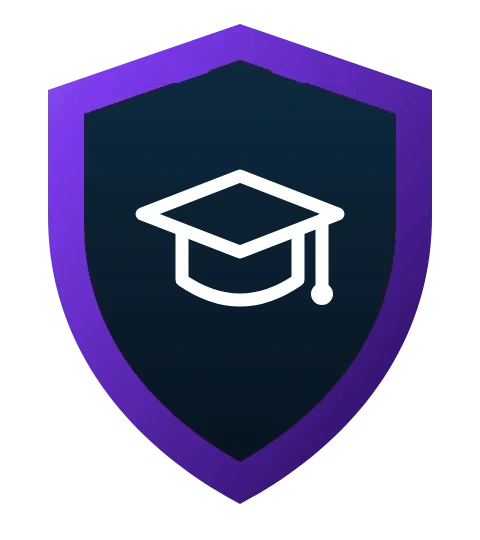
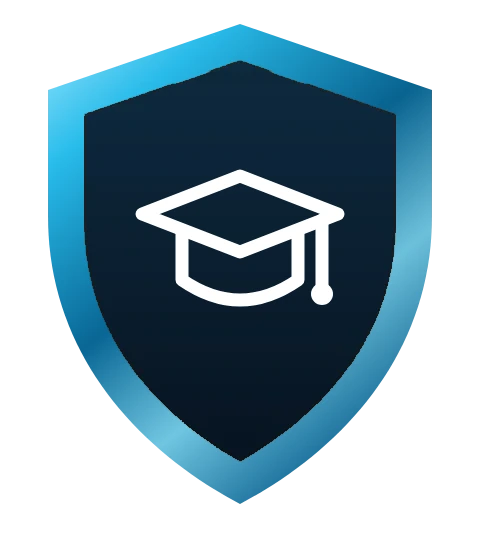
Maqueta: curso en azul metálico + frase del curso
Claude-Session: https://claude.ai/code/session_01Ap9s35NhKbdW3Dyth6SLE7

Changed region(s): [[0.0938, 0.0296, 0.9062, 0.9481]]

diff --git a/index.html b/index.html
@@ -8592,10 +8592,10 @@ function npBan(){const v=$("#v-inicio");if(!v)return;let d=$("#npBan");const E=n
 async function npDiploma(P){const E=npEstado();if(!E)return;try{await flFonts()}catch(e){}const W=1080,H=1350,c=document.createElement("canvas");c.width=W;c.height=H;const g=c.getContext("2d");
   // 17 nov (Edwin): diploma del CURSO, claro y distinto a la Certificación Networker Pro (oscura). Solo lleva la insignia de curso terminado.
   const ld=src=>new Promise(r=>{const i=new Image();i.onload=()=>r(i);i.onerror=()=>r(null);i.src=src});
-  const MO="#6D28D9",MC="#A78BFA",NV="#0B1220";
-  const bg=g.createLinearGradient(0,0,0,H);bg.addColorStop(0,"#FFFFFF");bg.addColorStop(1,"#F3F0FA");g.fillStyle=bg;g.fillRect(0,0,W,H);
-  const rg=g.createRadialGradient(W/2,1010,20,W/2,1010,520);rg.addColorStop(0,"rgba(167,139,250,.28)");rg.addColorStop(1,"rgba(167,139,250,0)");g.fillStyle=rg;g.fillRect(0,0,W,H);
-  g.strokeStyle=MO;g.lineWidth=3;g.strokeRect(44,44,W-88,H-88);g.strokeStyle="rgba(109,40,217,.25)";g.lineWidth=1.5;g.strokeRect(58,58,W-116,H-116);
+  const MO="#0A7DAD",MC="#2AC1F1",NV="#0B1220";
+  const bg=g.createLinearGradient(0,0,0,H);bg.addColorStop(0,"#FFFFFF");bg.addColorStop(1,"#EAF5FA");g.fillStyle=bg;g.fillRect(0,0,W,H);
+  const rg=g.createRadialGradient(W/2,1010,20,W/2,1010,520);rg.addColorStop(0,"rgba(42,193,241,.22)");rg.addColorStop(1,"rgba(42,193,241,0)");g.fillStyle=rg;g.fillRect(0,0,W,H);
+  g.strokeStyle=MO;g.lineWidth=3;g.strokeRect(44,44,W-88,H-88);g.strokeStyle="rgba(10,125,173,.25)";g.lineWidth=1.5;g.strokeRect(58,58,W-116,H-116);
   [[44,44],[W-44,44],[44,H-44],[W-44,H-44]].forEach(([x,y])=>{g.fillStyle=MO;g.beginPath();g.moveTo(x,y-12);g.lineTo(x+12,y);g.lineTo(x,y+12);g.lineTo(x-12,y);g.closePath();g.fill()});
   const lg=await ld("media/logo-al-osc.png");if(lg){const w=430,h=w*lg.height/lg.width;g.drawImage(lg,(W-w)/2,96,w,h)}
   const T2=(t,y,font,col,ls)=>{g.font=font;g.fillStyle=col;g.textAlign="center";try{g.letterSpacing=ls||"0px"}catch(e){}g.fillText(t,W/2,y);try{g.letterSpacing="0px"}catch(e){}};
@@ -8605,10 +8605,11 @@ async function npDiploma(P){const E=npEstado();if(!E)return;try{await flFonts()}
   T2("Se otorga a",510,"500 28px ALO,Figtree,sans-serif","#7A8290");
   let nm=P?nv(P.nombre||"")||P.nombre||"":(()=>{try{return nv(miRegistro().nombre||miNombreCorto())}catch(e){return miNombreCorto()||""}})(),z=76;g.font="600 "+z+"px ALP,Poppins,sans-serif";while(g.measureText(nm).width>880&&z>40){z-=2;g.font="600 "+z+"px ALP,Poppins,sans-serif"}T2(nm,596,g.font,NV);
   g.fillStyle=MC;g.fillRect(W/2-110,628,220,3);
-  T2("por terminar los "+E.tot+" videos del curso Networker Pro",688,"500 28px ALO,Figtree,sans-serif","#3F4652");
-  T2("y aprobar sus preguntas",728,"500 28px ALO,Figtree,sans-serif","#3F4652");
-  {const im=await ld("media/insignias/v3-curso.webp?v=2");if(im){const ih=300,iw=ih*im.width/im.height;g.drawImage(im,(W-iw)/2,770,iw,ih)}
-   const pw=330,ph=50,py=1078,px=(W-pw)/2,pg=g.createLinearGradient(0,py,0,py+ph);pg.addColorStop(0,"#8B5CF6");pg.addColorStop(1,"#5B21B6");g.fillStyle=pg;g.beginPath();g.roundRect?g.roundRect(px,py,pw,ph,ph/2):g.rect(px,py,pw,ph);g.fill();
+  T2("por terminar los "+E.tot+" videos del curso Networker Pro.",684,"500 28px ALO,Figtree,sans-serif","#3F4652");
+  T2("Ya sabe construir un sistema empresarial de redes",742,"600 29px ALP,Poppins,sans-serif",MO);
+  T2("de personas, con método, constancia y liderazgo.",782,"600 29px ALP,Poppins,sans-serif",MO);
+  {const im=await ld("media/insignias/v3-curso.webp?v=3");if(im){const ih=250,iw=ih*im.width/im.height;g.drawImage(im,(W-iw)/2,816,iw,ih)}
+   const pw=330,ph=50,py=1080,px=(W-pw)/2,pg=g.createLinearGradient(0,py,0,py+ph);pg.addColorStop(0,"#2AC1F1");pg.addColorStop(1,"#0A5A85");g.fillStyle=pg;g.beginPath();g.roundRect?g.roundRect(px,py,pw,ph,ph/2):g.rect(px,py,pw,ph);g.fill();
    g.font="700 21px ALP,Poppins,sans-serif";g.fillStyle="#fff";g.textAlign="center";g.textBaseline="middle";try{g.letterSpacing="4px"}catch(e){}g.fillText("CURSO TERMINADO",W/2+2,py+ph/2+1);try{g.letterSpacing="0px"}catch(e){}g.textBaseline="alphabetic"}
   const fu=P?(P.fecha||TODAY):Object.values(E.s.d).sort().pop()||TODAY;
   if(P)return c;
@@ -9324,7 +9325,7 @@ async function dipCanvas(P){await dipFonts();const E=P?null:irEstado(),st=P?(P.i
   const bw=(MW-48)/4;S.forEach((z,i)=>{const bx=X+i*(bw+16);g.fillStyle="rgba(255,255,255,.05)";evaRR(g,bx,562,bw,102,18);g.fill();g.strokeStyle="rgba(255,255,255,.1)";g.lineWidth=1;g.stroke();g.font="700 50px CTN";g.fillStyle="#fff";g.fillText(z[0],bx+20,616);const w0=g.measureText(z[0]).width;g.fillStyle="#2AC1F1";g.fillText(z[1],bx+20+w0,616);g.fillStyle="rgba(255,255,255,.6)";g.font="700 13px CTF";sp(z[2],bx+20,646,3,"left")});
   g.fillStyle="#2AC1F1";g.font="800 15px CTF";sp("INSIGNIAS",X,722,6,"left");
   const cl=P?/classic/i.test(RG.plan||""):irPaq()==="Classic",I=[[1,"Despegue","Semana 1"],[2,"Presentador","Validado"],[3,"Cerrador",cl?"Firmó un Classic":"Firmó un Premium"],[4,"Duplicador","Su socio arrancó"],["n","Networker Pro","Terminó el curso"],["c","Constancia","Racha de 7+ días"]];const cw=(MW-5*14)/6;
-  for(let i=0;i<I.length;i++){const [k,t,s2]=I[i],bx=X+i*(cw+14);g.fillStyle="rgba(255,255,255,.045)";evaRR(g,bx,740,cw,210,18);g.fill();g.strokeStyle="rgba(255,255,255,.1)";g.stroke();const im=await ld(k==="n"?"media/insignias/v3-curso.webp?v=2":insSrc(k));if(im){const iw=100,ih=iw*im.height/im.width;g.drawImage(im,bx+cw/2-iw/2,756,iw,ih)}g.textAlign="center";g.fillStyle="#fff";g.font="800 18px CTF";g.fillText(t,bx+cw/2,904);g.fillStyle="rgba(255,255,255,.6)";g.font="500 13px CTF";g.fillText(s2,bx+cw/2,926);g.textAlign="left"}
+  for(let i=0;i<I.length;i++){const [k,t,s2]=I[i],bx=X+i*(cw+14);g.fillStyle="rgba(255,255,255,.045)";evaRR(g,bx,740,cw,210,18);g.fill();g.strokeStyle="rgba(255,255,255,.1)";g.stroke();const im=await ld(k==="n"?"media/insignias/v3-curso.webp?v=3":insSrc(k));if(im){const iw=100,ih=iw*im.height/im.width;g.drawImage(im,bx+cw/2-iw/2,756,iw,ih)}g.textAlign="center";g.fillStyle="#fff";g.font="800 18px CTF";g.fillText(t,bx+cw/2,904);g.fillStyle="rgba(255,255,255,.6)";g.font="500 13px CTF";g.fillText(s2,bx+cw/2,926);g.textAlign="left"}
   const pt=String(RG.patrocinador||"").trim(),F=[["Edwin García Go","NATIONAL DIRECTOR"]];if(pt&&!certEsEdwin(pt))F.push([nv(pt),"SU PATROCINADOR"]);
   F.forEach((f,i)=>{const fx=X+i*320;g.fillStyle="rgba(255,255,255,.3)";g.fillRect(fx,1146,260,1.5);g.fillStyle="#fff";g.font="800 22px CTF";g.fillText(f[0],fx,1180);g.fillStyle="#2AC1F1";g.font="700 13px CTF";sp(f[1],fx,1204,4,"left")});
   g.textAlign="right";g.fillStyle="#2AC1F1";g.font="600 28px DPP";g.fillText("#HASTAQUEFUNCIONE",1540,1176);g.fillStyle="rgba(255,255,255,.55)";g.font="400 15px CTF";g.fillText("Honduras · "+fe.getDate()+" de "+MONTHS[fe.getMonth()]+" de "+fe.getFullYear(),1540,1204);g.textAlign="left";
